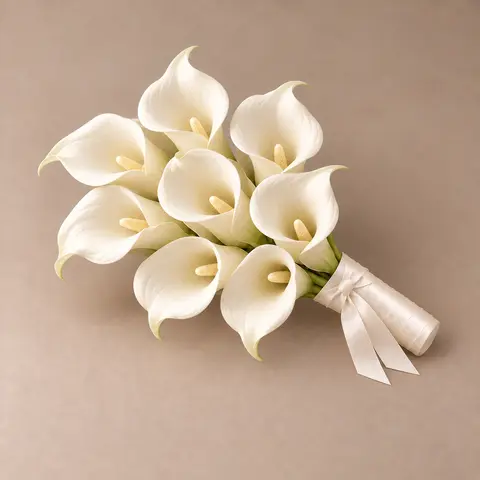
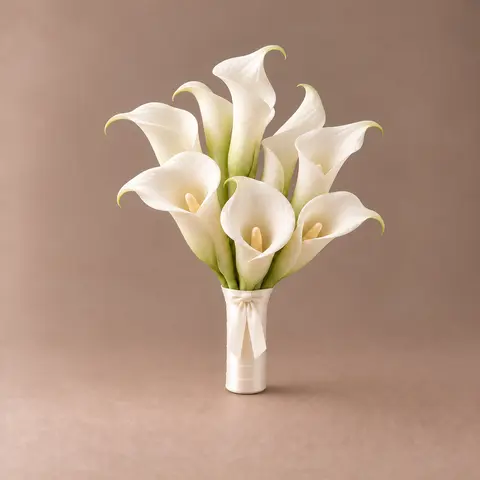
부케 R3 — 세워 든 둥근 부케 셋 · 이름 바꿈 · 사진 ?v= 올림 [BOUQUET_R3_1101] (#1503)
사장님 «부케가 파전같이 퍼져 있잖아, 구 형태가 아니라» · «세련되고 트렌디한 부케» →
코워크 GPT R3 → 사장님 «좋아».
- 사진 4장 같은 이름으로 덮어씀(calla md5 eed1e647…) · R.IMG_V 새 md5 로(캐시 깨기)
- 보이는 글만: 카라(설명) · 크림·화이트 컴팩트 돔 · 은방울 미니 · 전환 단추 · 부토니에
  캡션 · 짝 이름과 한 줄. id · 파일 이름은 옛것(저장값 없음 · 주석으로 표시 이름 적음)
- 부케 이름 · note(부케 문구 고정) · «3종»은 그대로
- 검사: dress-refs ⑰ 라벨 · 캡션 · ?v= · dress-tabs 단추 · 이름 · 짝 · 주소 · merge-guard
  (옛 «블러시 핑크 가든» 되살림 막기)
- 캡처 docs/handoff/shots1101bouquet3/ (390 · 1280)

Claude-Session: https://claude.ai/code/session_01RvnB9A4z4CDWmJbisiCiY4

diff --git a/assets/dress-refs.js b/assets/dress-refs.js
@@ -313,25 +313,27 @@
     { id: 'shoes', name: '새틴 슈즈', img: 'acc-shoes', note: '슈즈도 스튜디오에서 준비해요 · 드레스 길이에 맞춰 굽 높이를 함께 정해요', on: true },
     /* ★★[DRESS_BOUQUET3_1031 코워크 · 사장님 «부케도 3개 정도 준비하는 건 어때?» · «인스타에서 인기 많은 부케 검색 후 적용»] 기본 조화 부케 한 칸 = 세 가지 보기(카라 · 화이트·그린 · 블러시 핑크) + 부토니에 짝.
          인스타 76건 — 화이트 · 카라 · 그린이 많고 레드 · 버건디가 가장 약했다 → 옛 레드 장미 사진(acc-bouquet)은 대표에서 내렸다(파일은 남긴다 · 되살리지 말 것).
+         ★[BOUQUET_R3_1101] 지금 셋 = 카라 · 크림·화이트 컴팩트 돔 · 은방울 미니(id 는 처음 이름 그대로 — 저장값이 없어 바꾸지 않는다).
          고르기 · 저장 · 자동 넘김 없음 — 자세히에서 보기만 바꾼다. note 는 부케 문구 고정 규칙(식순 BOUQUET · GOODS_STUDIO 와 같은 뜻)이라 종전 그대로 */
     { id: 'bouquet', name: '기본 조화 부케', img: 'acc-bouquet-calla', note: '기본 조화 부케는 저희가 준비해요 · 생화를 원하시면 별도 비용이에요', on: true,
       badge: '3종', browse: '3가지 부케 보기',
       variants: [
-        { id: 'bouquet-calla', name: '화이트 카라 미니멀', label: '카라', img: 'acc-bouquet-calla', desc: '카라의 매끈한 선을 살린 작고 단정한 부케예요.', bout: 'boutonniere-calla' },
-        { id: 'bouquet-white-green', name: '화이트·그린 내추럴', label: '화이트·그린', img: 'acc-bouquet-white-green', desc: '흰 장미와 튤립에 가벼운 그린을 더해 자연스럽게 묶었어요.', bout: 'boutonniere-white-green' },
-        { id: 'bouquet-blush-pink', name: '블러시 핑크 가든', label: '블러시 핑크', img: 'acc-bouquet-blush-pink', desc: '연한 핑크 장미를 중심으로 부드럽고 둥글게 모았어요.', bout: 'boutonniere-blush-pink' }
+        { id: 'bouquet-calla', name: '화이트 카라 미니멀', label: '카라', img: 'acc-bouquet-calla', desc: '날렵한 카라의 선을 모아 작고 단정하게 완성했어요.', bout: 'boutonniere-calla' },
+        { id: 'bouquet-white-green', name: '크림·화이트 컴팩트 돔', label: '크림·화이트', img: 'acc-bouquet-white-green', desc: '장미·라넌큘러스·튤립을 화이트와 크림 톤으로 둥글게 모았어요.', bout: 'boutonniere-white-green' },   // [BOUQUET_R3_1101] id · 파일 이름은 옛것(저장값 없음) · 표시 이름은 크림·화이트 컴팩트 돔
+        { id: 'bouquet-blush-pink', name: '은방울 미니', label: '은방울', img: 'acc-bouquet-blush-pink', desc: '작은 은방울꽃을 둥글게 모아 섬세한 결을 살렸어요.', bout: 'boutonniere-blush-pink' }   // [BOUQUET_R3_1101] id · 파일 이름은 옛것(저장값 없음) · 표시 이름은 은방울 미니
       ],
-      boutonniere: { toggle: '신랑 가슴 꽃 함께 보기', title: '신랑 가슴 꽃 · 부토니에', note: '신랑 가슴 꽃도 부케와 같은 꽃으로 맞춰요.', img: 'acc-boutonniere-pairs', caption: '왼쪽부터 카라 · 화이트·그린 · 블러시 핑크',
+      boutonniere: { toggle: '신랑 가슴 꽃 함께 보기', title: '신랑 가슴 꽃 · 부토니에', note: '신랑 가슴 꽃도 부케와 같은 꽃으로 맞춰요.', img: 'acc-boutonniere-pairs', caption: '왼쪽부터 카라 · 크림·화이트 · 은방울',
         pairs: [
           { id: 'boutonniere-calla', bouquet: 'bouquet-calla', name: '카라 부토니에', desc: '같은 화이트 카라 한 송이로 맞춰요.' },
-          { id: 'boutonniere-white-green', bouquet: 'bouquet-white-green', name: '화이트·그린 부토니에', desc: '흰 장미와 작은 튤립 봉오리로 맞춰요.' },
-          { id: 'boutonniere-blush-pink', bouquet: 'bouquet-blush-pink', name: '블러시 핑크 부토니에', desc: '같은 연핑크 장미와 아이보리 봉오리로 맞춰요.' }
+          { id: 'boutonniere-white-green', bouquet: 'bouquet-white-green', name: '크림·화이트 부토니에', desc: '같은 화이트 라넌큘러스 한 송이로 맞춰요.' },
+          { id: 'boutonniere-blush-pink', bouquet: 'bouquet-blush-pink', name: '은방울 부토니에', desc: '같은 작은 은방울꽃으로 맞춰요.' }
         ] } }
   ];
   R.ACC_LEAD = '드레스 · 면사포 · 헤어 장식 · 귀걸이 · 슈즈와 웨딩 소품은 스튜디오에 갖춰져 있어요.';
   /* ★[ACC_IMG_V 2026-11-01 코워크 · 사장님 «부케 모양이 이상하잖아»] 같은 이름으로 사진을 바꾼 소품 — 주소 끝 ?v=(그 파일 md5 앞 8자리)로 브라우저 · CDN 의 옛 사진을 깬다.
        사진을 다시 바꾸면 여기 값도 그 파일 md5 앞 8자리로(검사 dress-refs ⑰ 가 파일과 대조한다 · 어긋나면 빨강) */
-  R.IMG_V = { 'acc-bouquet-calla': '5bb1f518', 'acc-bouquet-white-green': '378beb27', 'acc-bouquet-blush-pink': '8d3cae99', 'acc-boutonniere-pairs': 'e4f74842' };
+  /* ★[BOUQUET_R3_1101 사장님 «부케가 파전같이 퍼져 있잖아, 구 형태가 아니라» · «세련되고 트렌디한 부케» → R3 «좋아»] 세워 든 둥근 부케 넷으로 다시 바꿨다 — 값도 새 파일 md5 */
+  R.IMG_V = { 'acc-bouquet-calla': 'eed1e647', 'acc-bouquet-white-green': '33df1bb1', 'acc-bouquet-blush-pink': 'fe83dca4', 'acc-boutonniere-pairs': '9ac49a43' };
   R.accSrc = function (name) { var v = R.IMG_V && R.IMG_V[name]; return '/assets/dress-refs/' + name + '.webp' + (v ? '?v=' + v : ''); };
   R.accList = function () { return R.ACC_ON ? R.acc.filter(function (a) { return a && a.on && a.img; }) : []; };
   /* ★[DRESS_NAME_SPLIT 1024 코워크 GPT 2차] 이름 = 작은 보조 줄 «스타일 예시 0n» + 제목(«잔비즈 오프숄더 미니») — 실물 이름은 제목 하나 */
